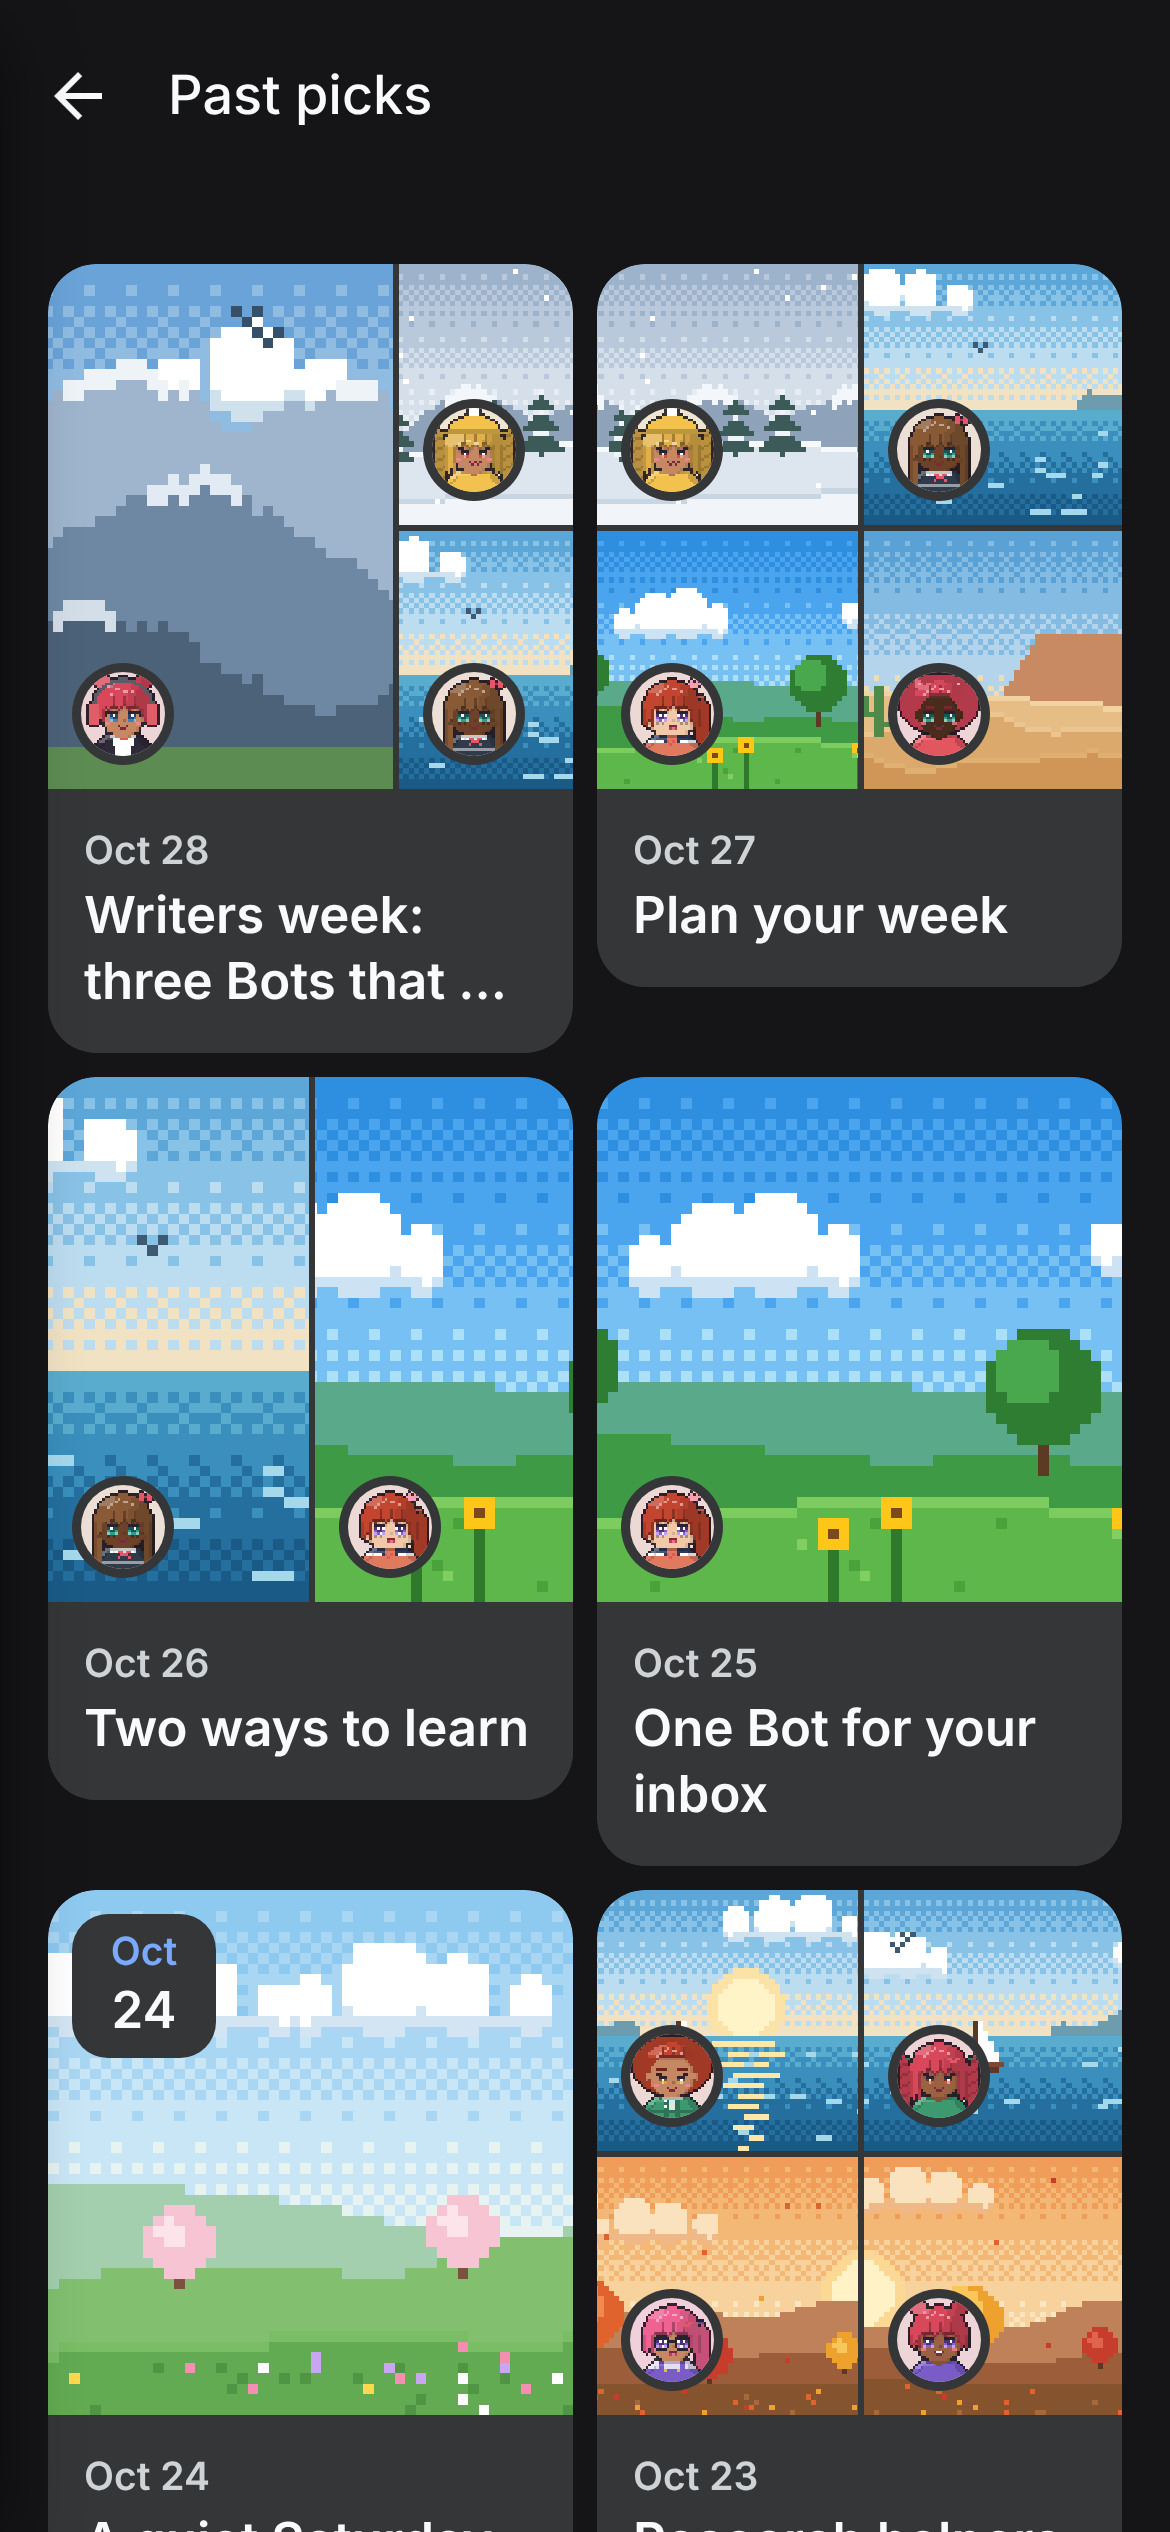
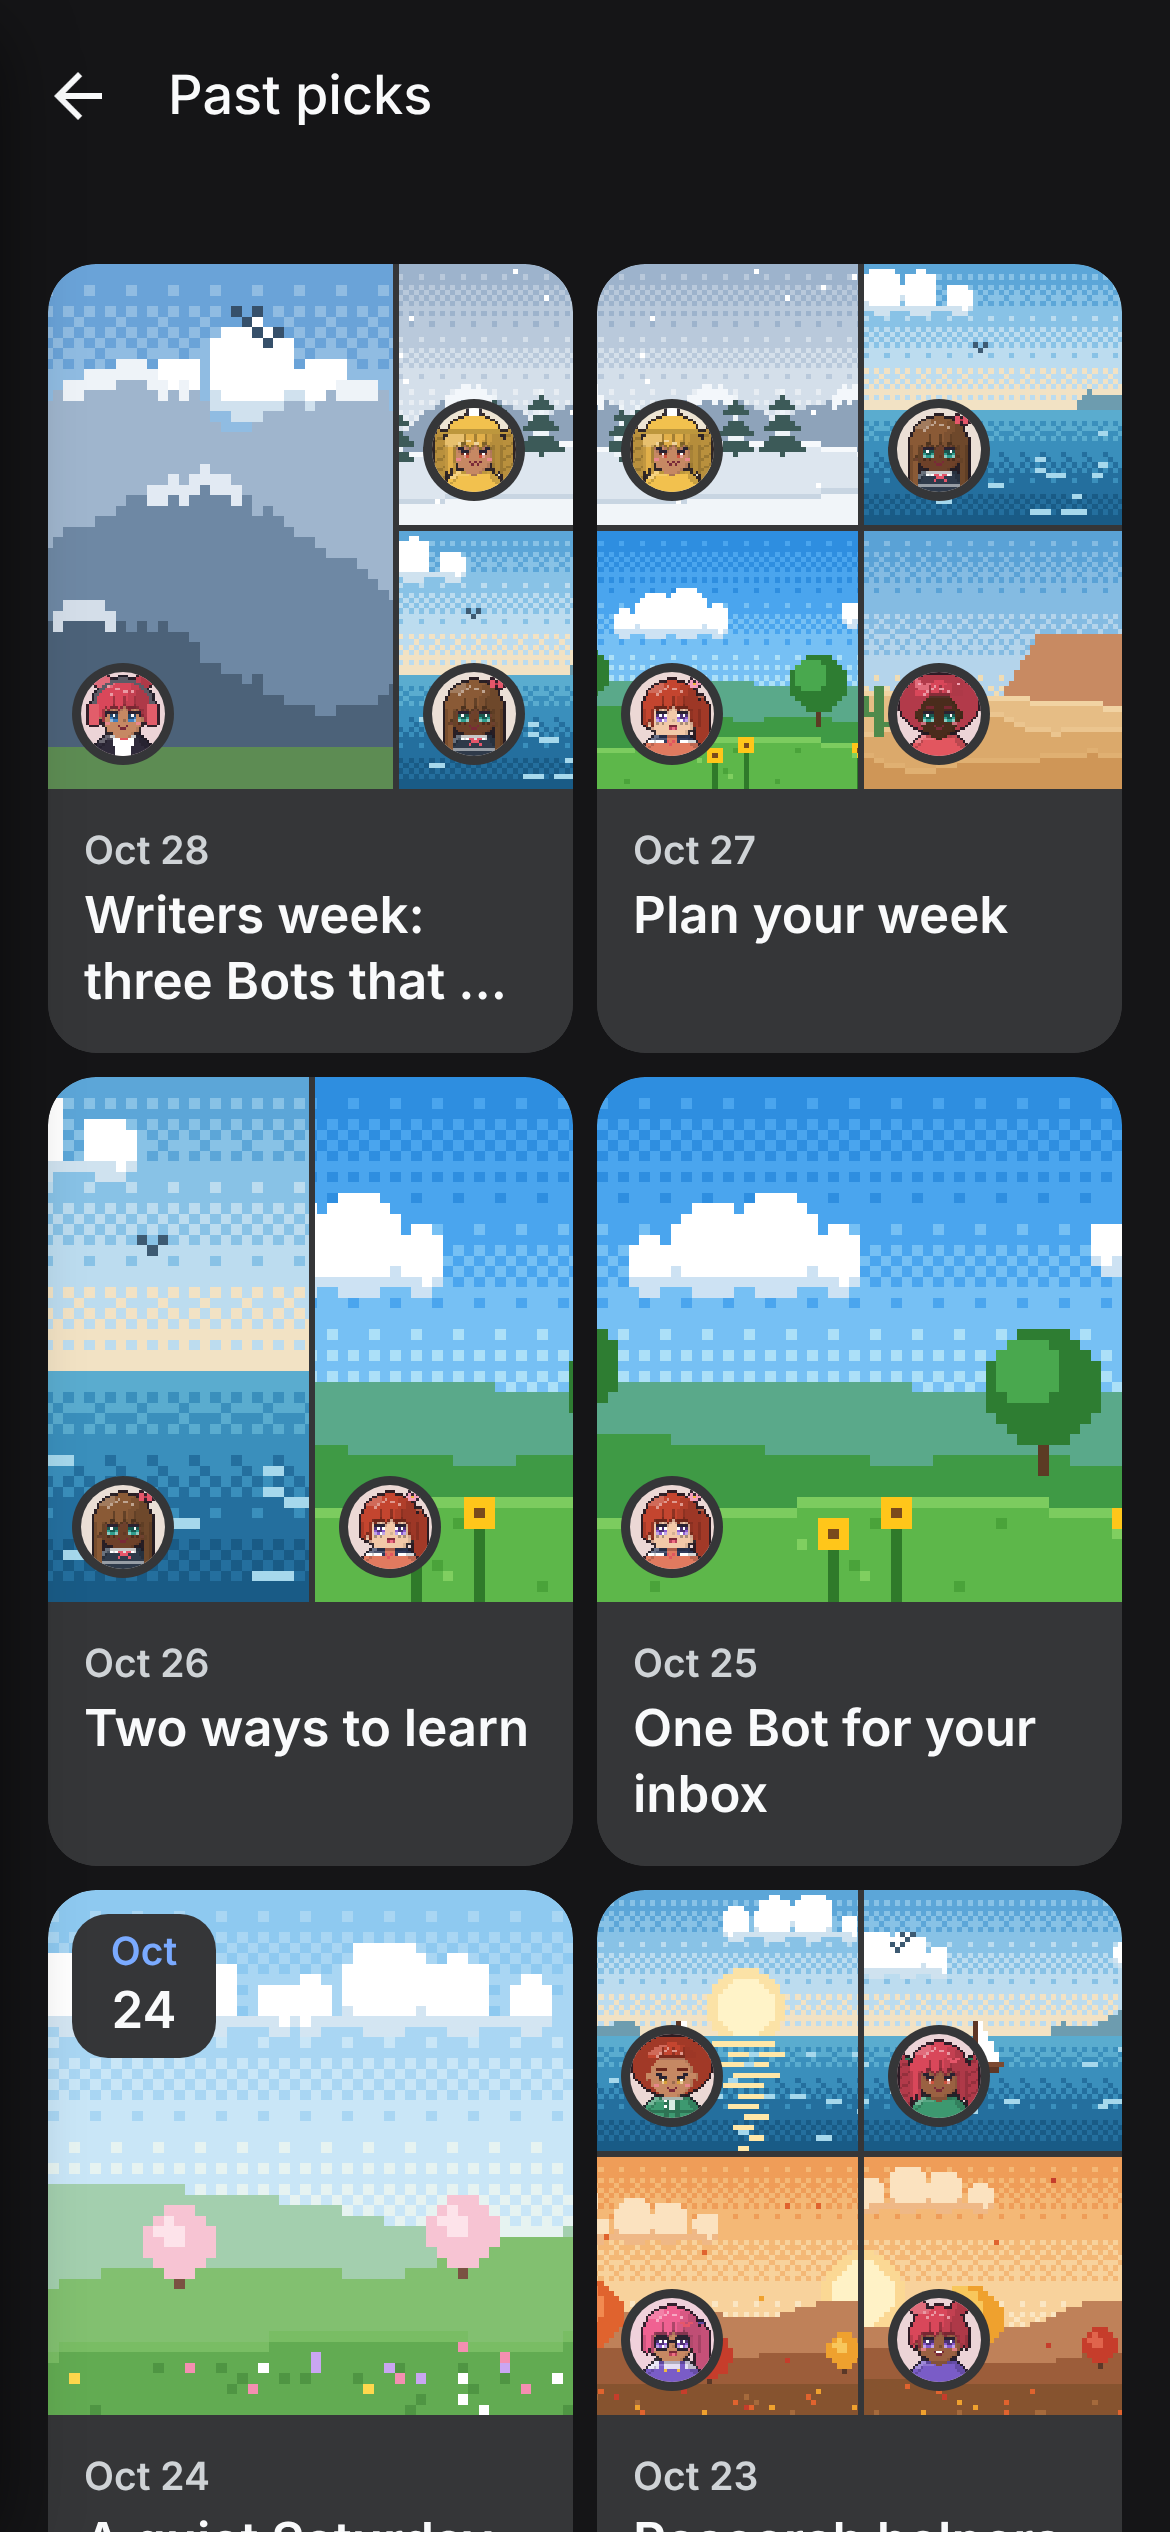
fix(mobile): equal-height cards in the Past picks grid
Each row's two covers now stretch to the taller one, and the grid
caption reserves two title lines, so a one-line title no longer leaves
its card shorter than its neighbour.

Claude-Session: https://claude.ai/code/session_01Lpx6qknbjdgGYwiUnQeF6o

Changed region(s): [[0.4923, 0.3744, 0.9846, 0.4368], [0.0308, 0.6864, 0.4923, 0.7488]]

diff --git a/apps/mobile/src/ui/shell/marketplace-cover.tsx b/apps/mobile/src/ui/shell/marketplace-cover.tsx
@@ -79,6 +79,7 @@ export function DigestCover({
   avatarSize = marketplaceHome.coverAvatar,
   caption = true,
   pressed = false,
+  fill = false,
 }: {
   day: string;
   title: string;
@@ -88,6 +89,7 @@ export function DigestCover({
   avatarSize?: number;
   caption?: boolean;
   pressed?: boolean;
+  fill?: boolean;
 }) {
   const theme = useDesignTheme();
   const layout = digestCoverLayout(picks.length);
@@ -100,6 +102,7 @@ export function DigestCover({
       accessibilityElementsHidden={!caption}
       importantForAccessibility={caption ? 'auto' : 'no-hide-descendants'}
       style={{
+        flexGrow: fill ? 1 : 0,
         borderRadius: radius.lg,
         overflow: 'hidden',
         backgroundColor: theme.layer.raised.fill,
@@ -137,6 +140,7 @@ export function DigestCover({
       {caption ? (
         <View
           style={{
+            flexGrow: 1,
             padding: space.x4,
             gap: space.x1,
             backgroundColor: pressed ? theme.layer.raised.pressed : theme.layer.raised.fill,
@@ -145,7 +149,11 @@ export function DigestCover({
           <Text variant="meta" tone="muted" strong>
             {digestShortDate(day, lang)}
           </Text>
-          <Text variant="title" numberOfLines={2}>
+          <Text
+            variant="title"
+            numberOfLines={2}
+            style={fill ? { minHeight: theme.type.title.line * 2 } : undefined}
+          >
             {title}
           </Text>
         </View>

diff --git a/apps/mobile/src/ui/shell/marketplace-past-picks-screen.tsx b/apps/mobile/src/ui/shell/marketplace-past-picks-screen.tsx
@@ -48,7 +48,7 @@ export function MarketplacePastPicksScreen() {
             key={columns}
             numColumns={columns}
             contentInsetAdjustmentBehavior="automatic"
-            columnWrapperStyle={columns > 1 ? { gap: space.x3 } : undefined}
+            columnWrapperStyle={columns > 1 ? { gap: space.x3, alignItems: 'stretch' } : undefined}
             contentContainerStyle={{
               padding: space.x5,
               paddingBottom: insets.bottom + space.x5,

diff --git a/apps/mobile/src/ui/shell/marketplace-daily-picks.tsx b/apps/mobile/src/ui/shell/marketplace-daily-picks.tsx
@@ -47,6 +47,7 @@ export function DigestCard({
               : { height: marketplaceHome.heroCover }
           }
           avatarSize={grid ? marketplaceHome.coverAvatar : marketplaceHome.heroAvatar}
+          fill={grid}
         />
       )}
     </Pressable>
